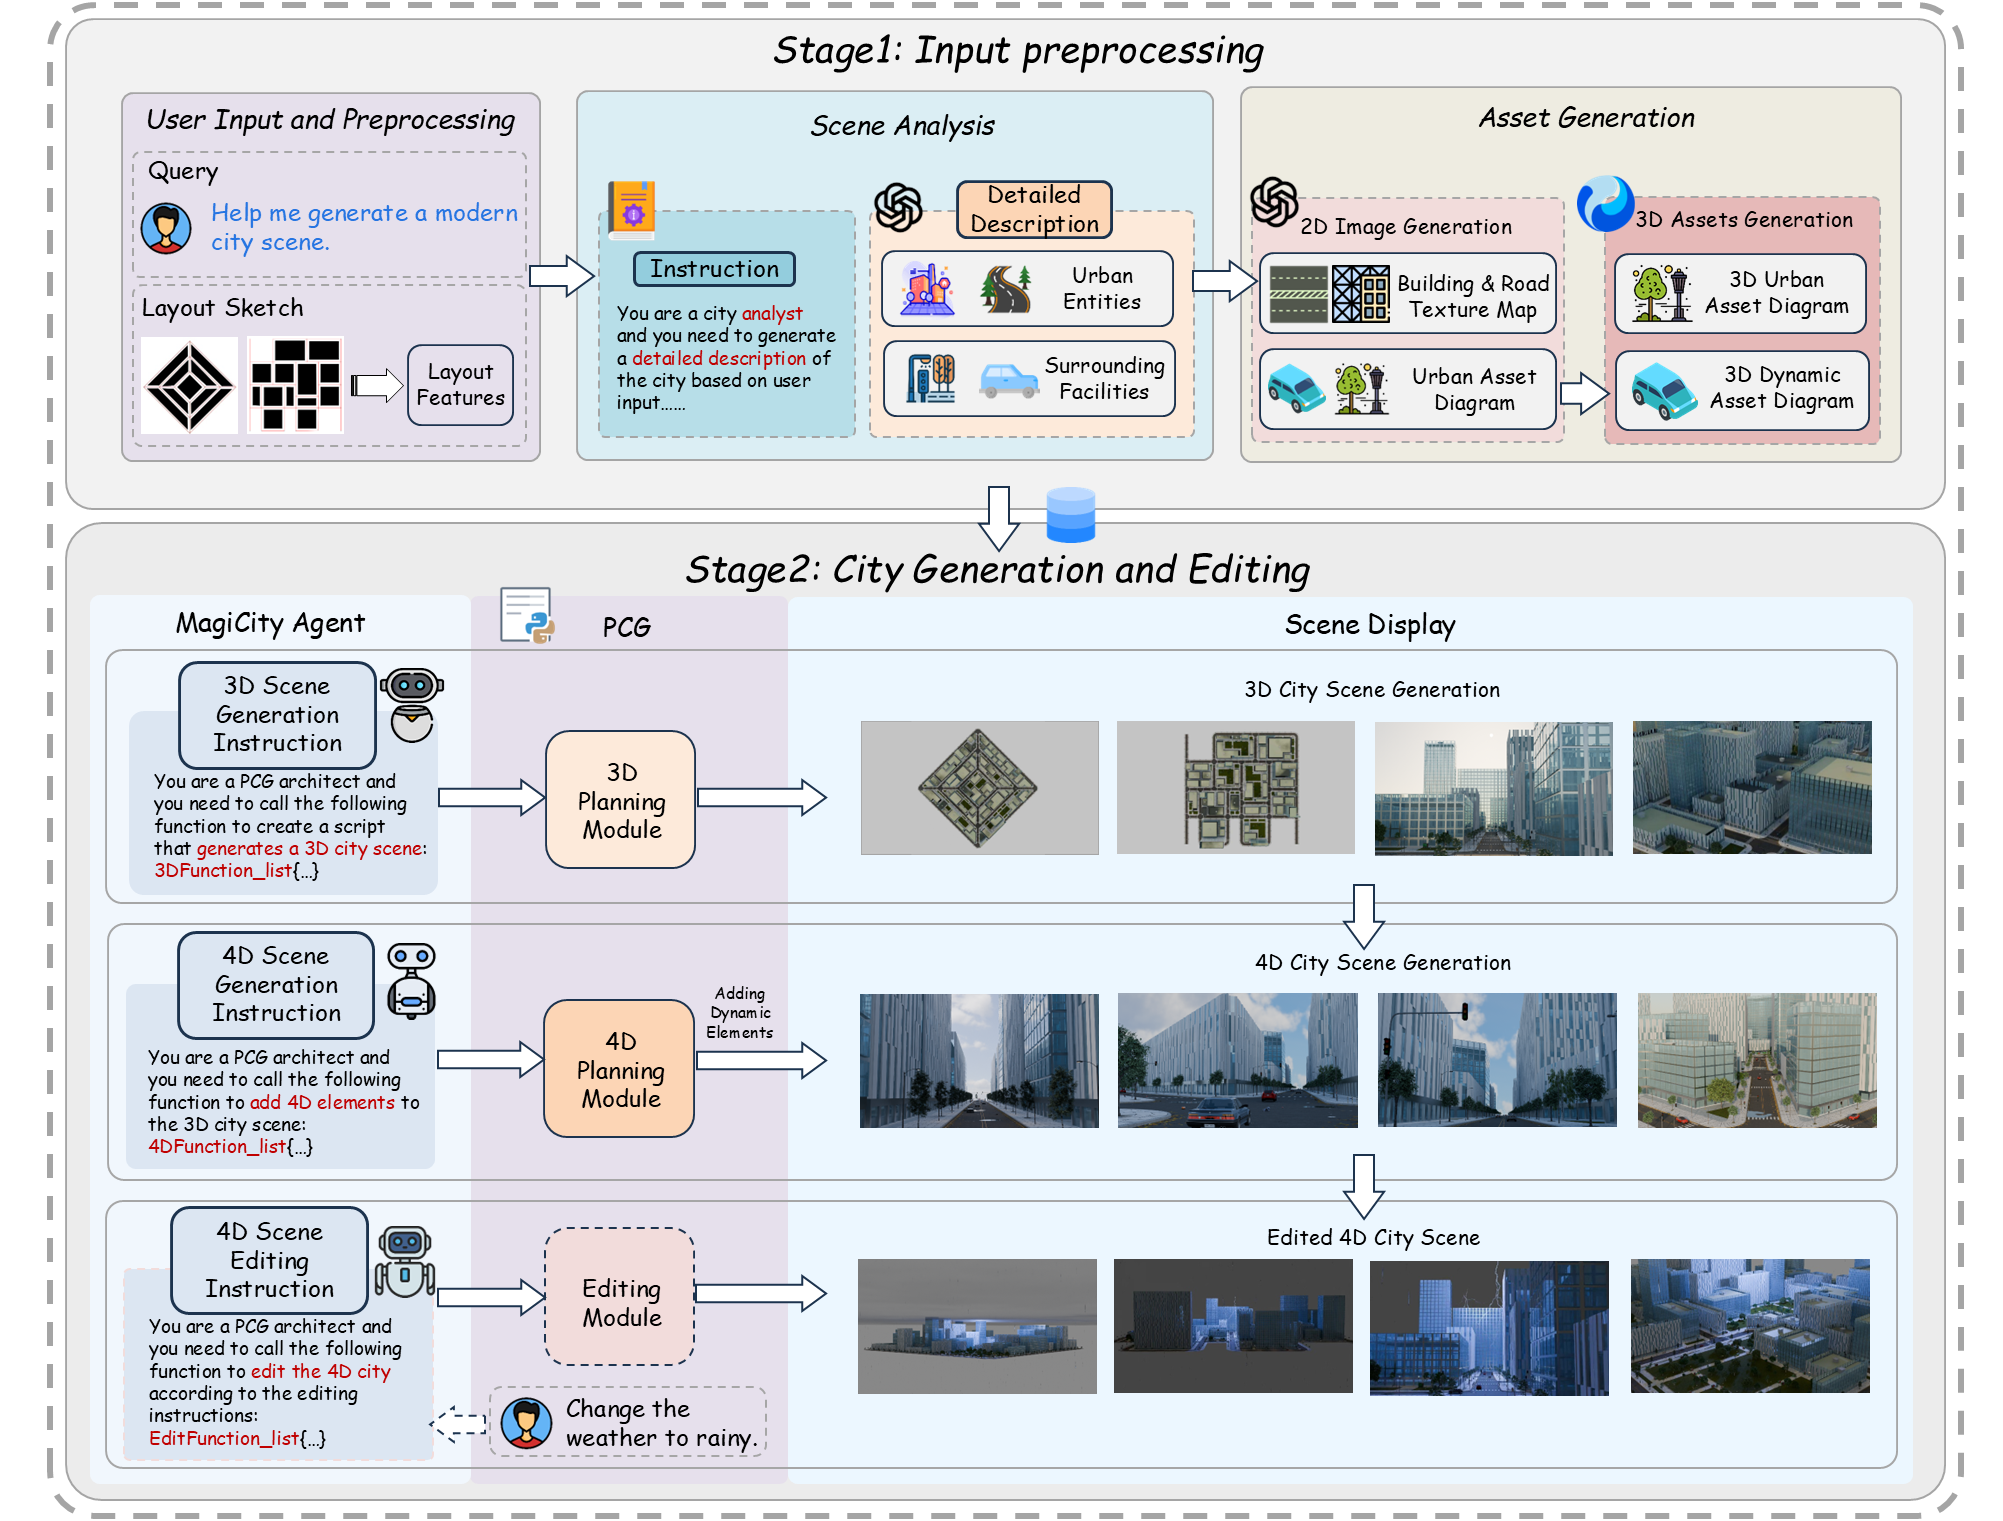
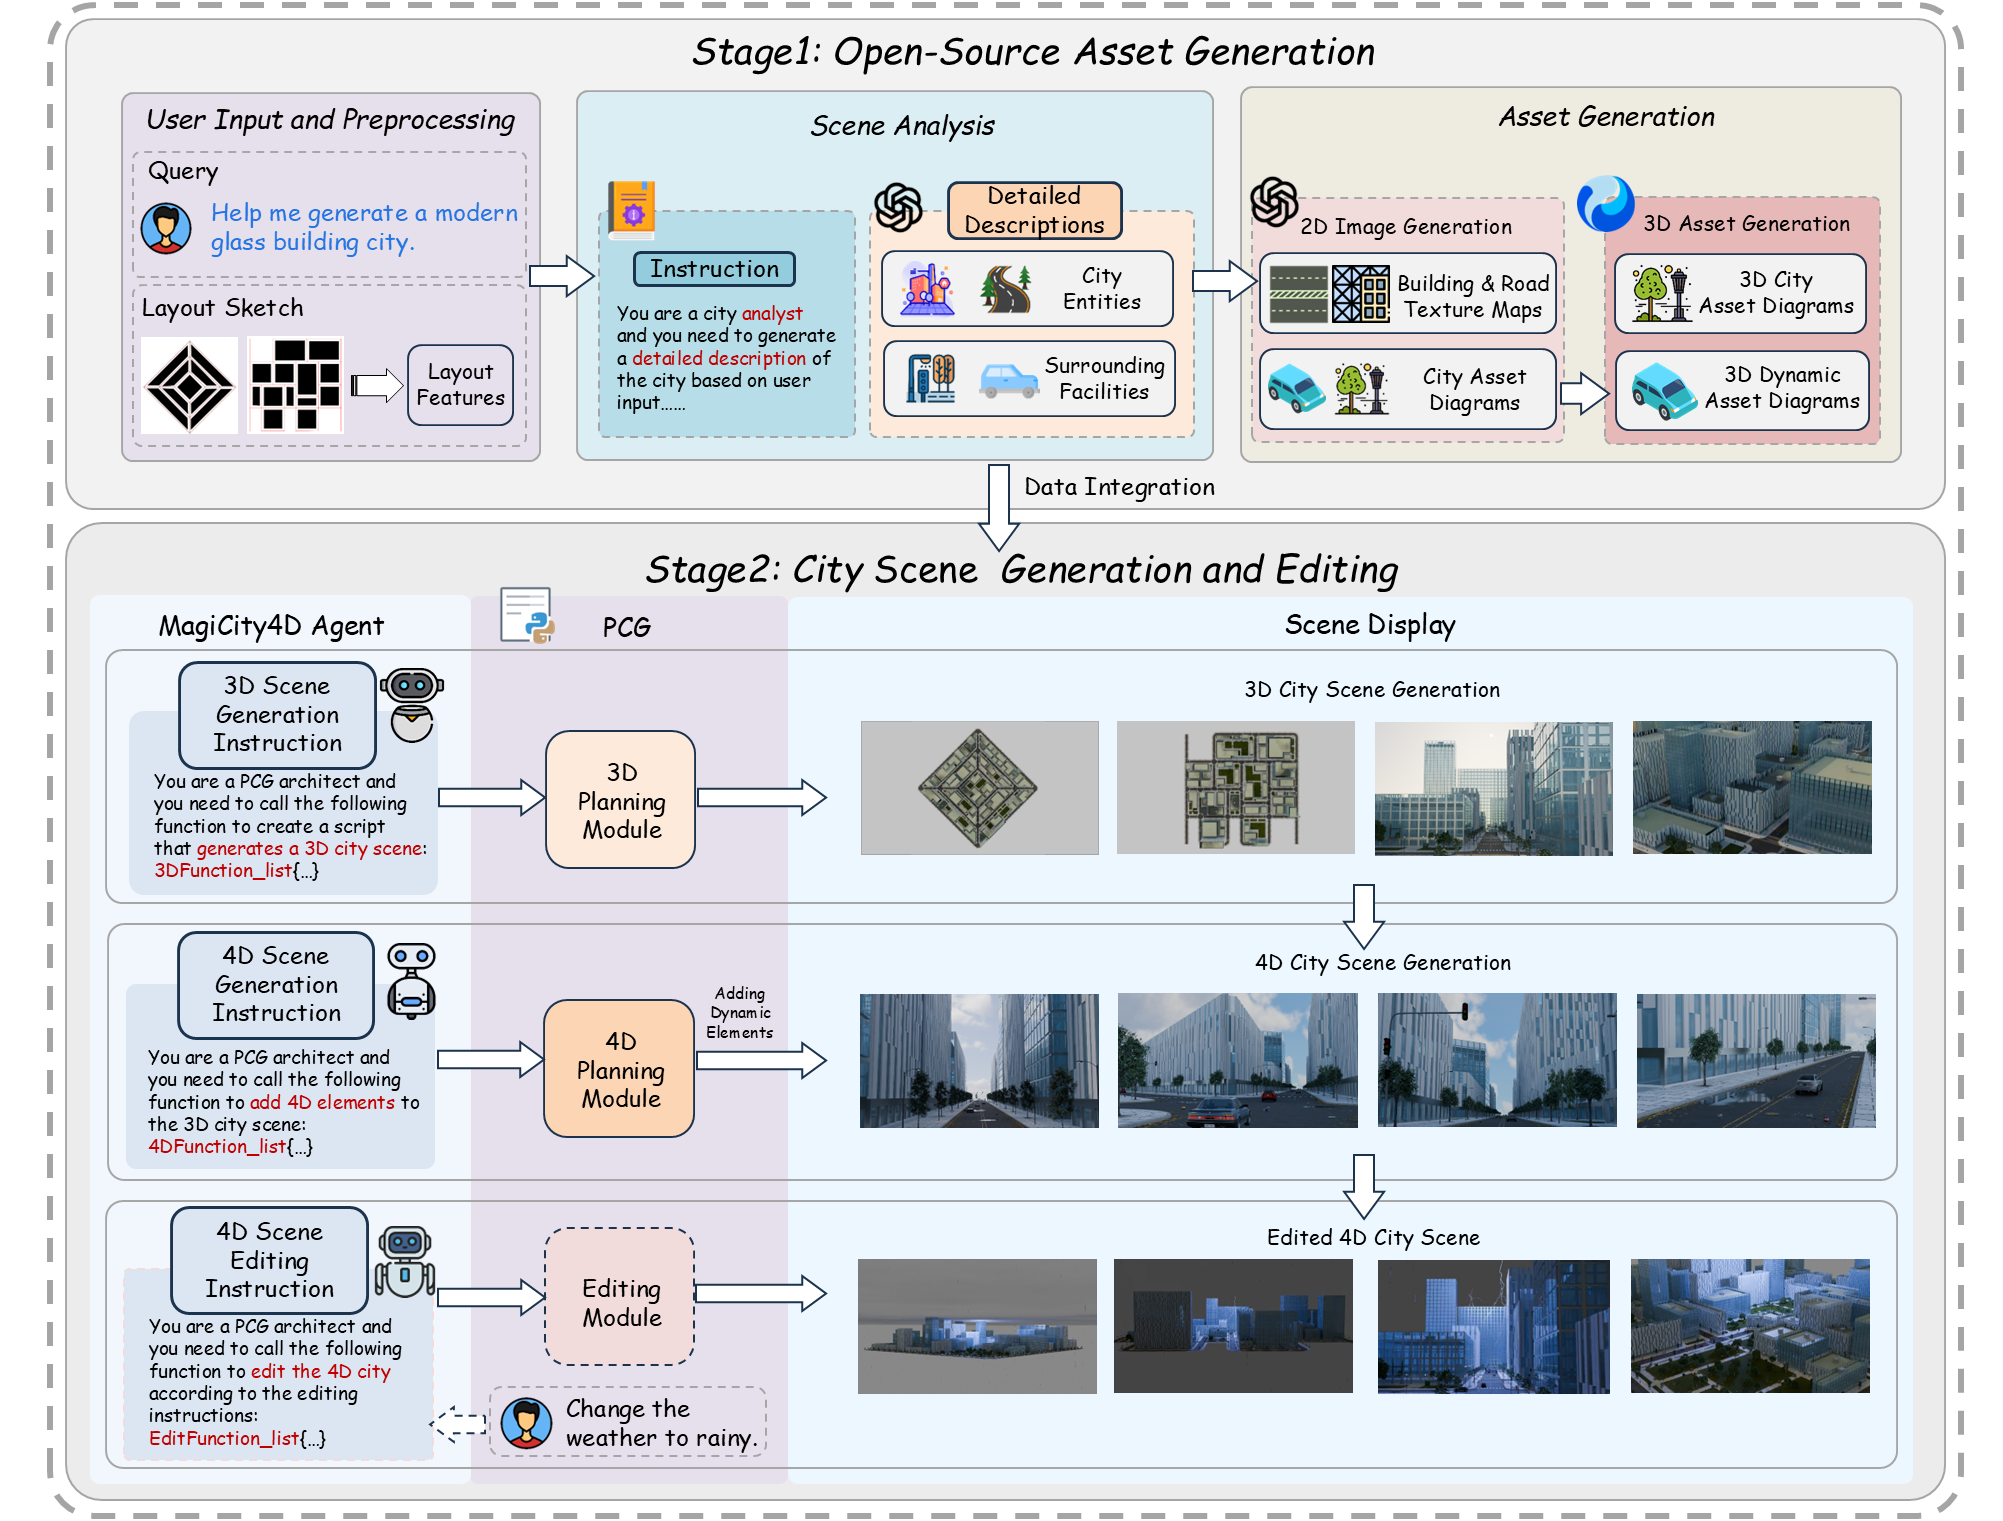
upadte

diff --git a/index.html b/index.html
@@ -150,7 +150,7 @@
       <article itemscope itemtype="https://schema.org/BlogPosting">
         <br></br>
         <h1 itemprop="headline" align="center">
-          <font color="000093">MAGICITY4D: Methodology for Editable and Interactable<br>4D City Scene Generation by MLLM-powered Procedural Content Generation</br>
+          <font color="000093">MAGICITY4D: Controllable and Editable 4D City Scene Generation<br>by MLLM-powered Procedural Content Generation</br>
           </font>
         </h1>
         <br></br>
@@ -493,8 +493,7 @@
         </h2>
           <p style="text-align: justify;">
             <font color="061E61">
-              3D city scene generation technology has made significant progress in recent years, 4D city scene generation is more challenging due to its need to incorporate temporal dynamics, placing higher demands on generation system coordination capabilities.
-To address this dilemma, this paper proposes MagiCity4D, a multimodal 4D city generation framework based on multimodal large language model (MLLM) and ocedural content generation (PCG). This framework deeply integrates MLLM and PCG to enable not only scene generation but also real-time, fine-grained editing of scenes. Experiments demonstrate that the quality of city scenes generated by MagiCity4D outperforms existing methods.</font>
+              Recently, 3D city scene generation has advanced significantly; however, 4D city scene generation lags behind. This is because incorporating temporal dynamics requires a higher level of coordination within the generation system. To address this dilemma, we propose MagiCity4D, a multimodal 4D city generation framework. By deeply integrating multimodal large language models (MLLMs) and procedural content generation (PCG), our framework enables both scene generation and real-time, fine-grained editing without additional training. Experiments demonstrate that our framework outperforms existing methods in terms of overall performance.</font>
           </p>
 
 
@@ -502,7 +501,7 @@ To address this dilemma, this paper proposes MagiCity4D, a multimodal 4D city ge
             <p align="center"><img src="./img/main.png" width="90%" class="center" /></p>
             <figcaption style="display: flex; justify-content: center;">
               <p style="text-align: justify;">
-                  <font color="061E61"><b>Fig. 1:</b> Pipeline of MagiCity4D
+                  <font color="061E61"><b>Fig. 1:</b> Pipeline of MagiCity4D. he MagiCity4D pipeline is divided into two stages: Stage 1 (top) manages open-source asset generation and integration, while Stage 2 (bottom) utilizes the outputs from Stage 1 to generate and edit the city scenes.
               </p>
           </figcaption>
           </figure>
@@ -511,7 +510,7 @@ To address this dilemma, this paper proposes MagiCity4D, a multimodal 4D city ge
             <p align="center"><img src="./img/compare.png" width="90%" class="center" /></p>
             <figcaption style="display: flex; justify-content: center;">
               <p style="text-align: justify;">
-                  <font color="061E61"><b>Fig. 2:</b> Quality Comparison
+                  <font color="061E61"><b>Fig. 2:</b> Quality Comparison.
               </p>
           </figcaption>
           </figure>
@@ -520,7 +519,7 @@ To address this dilemma, this paper proposes MagiCity4D, a multimodal 4D city ge
             <p align="center"><img src="./img/consistency.png" width="90%" class="center" /></p>
             <figcaption style="display: flex; justify-content: center;">
               <p style="text-align: justify;">
-                  <font color="061E61"><b>Fig. 3:</b> Spatial Consistency of Urban Layout
+                  <font color="061E61"><b>Fig. 3:</b> Spatial Consistency of Urban Layout.
               </p>
           </figcaption>
           </figure>
@@ -529,7 +528,7 @@ To address this dilemma, this paper proposes MagiCity4D, a multimodal 4D city ge
             <p align="center"><img src="./img/generation.png" width="90%" class="center" /></p>
             <figcaption style="display: flex; justify-content: center;">
               <p style="text-align: justify;">
-                  <font color="061E61"><b>Fig. 4:</b> Visualization of generated City Scene
+                  <font color="061E61"><b>Fig. 4:</b> Visualization of generated City Scenes.
               </p>
           </figcaption>
           </figure>
